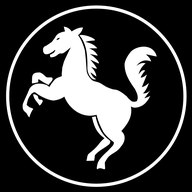
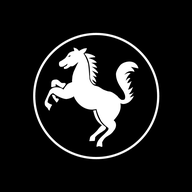
홈화면 아이콘 로고 크기 축소 (여백 추가)

Changed region(s): [[0.0938, 0.125, 0.8438, 0.9062], [0.0312, 0.0, 1.0, 1.0], [0.8125, 0.8125, 0.8438, 0.8438]]

diff --git a/index.html b/index.html
@@ -397,7 +397,7 @@ import { getFirestore, collection, addDoc, setDoc, deleteDoc, doc, onSnapshot } 
    - 기기/브라우저 캐시로 옛 화면이 뜨는 문제 방지
    - 배포할 때마다 이 숫자와 version.json 의 v 를 함께 올린다
 ===================================================== */
-const APP_VERSION = "2026.06.06.4";
+const APP_VERSION = "2026.06.06.5";
 (async function 버전확인(){
   try{
     const res = await fetch('version.json?t=' + Date.now(), { cache:'no-store' });
